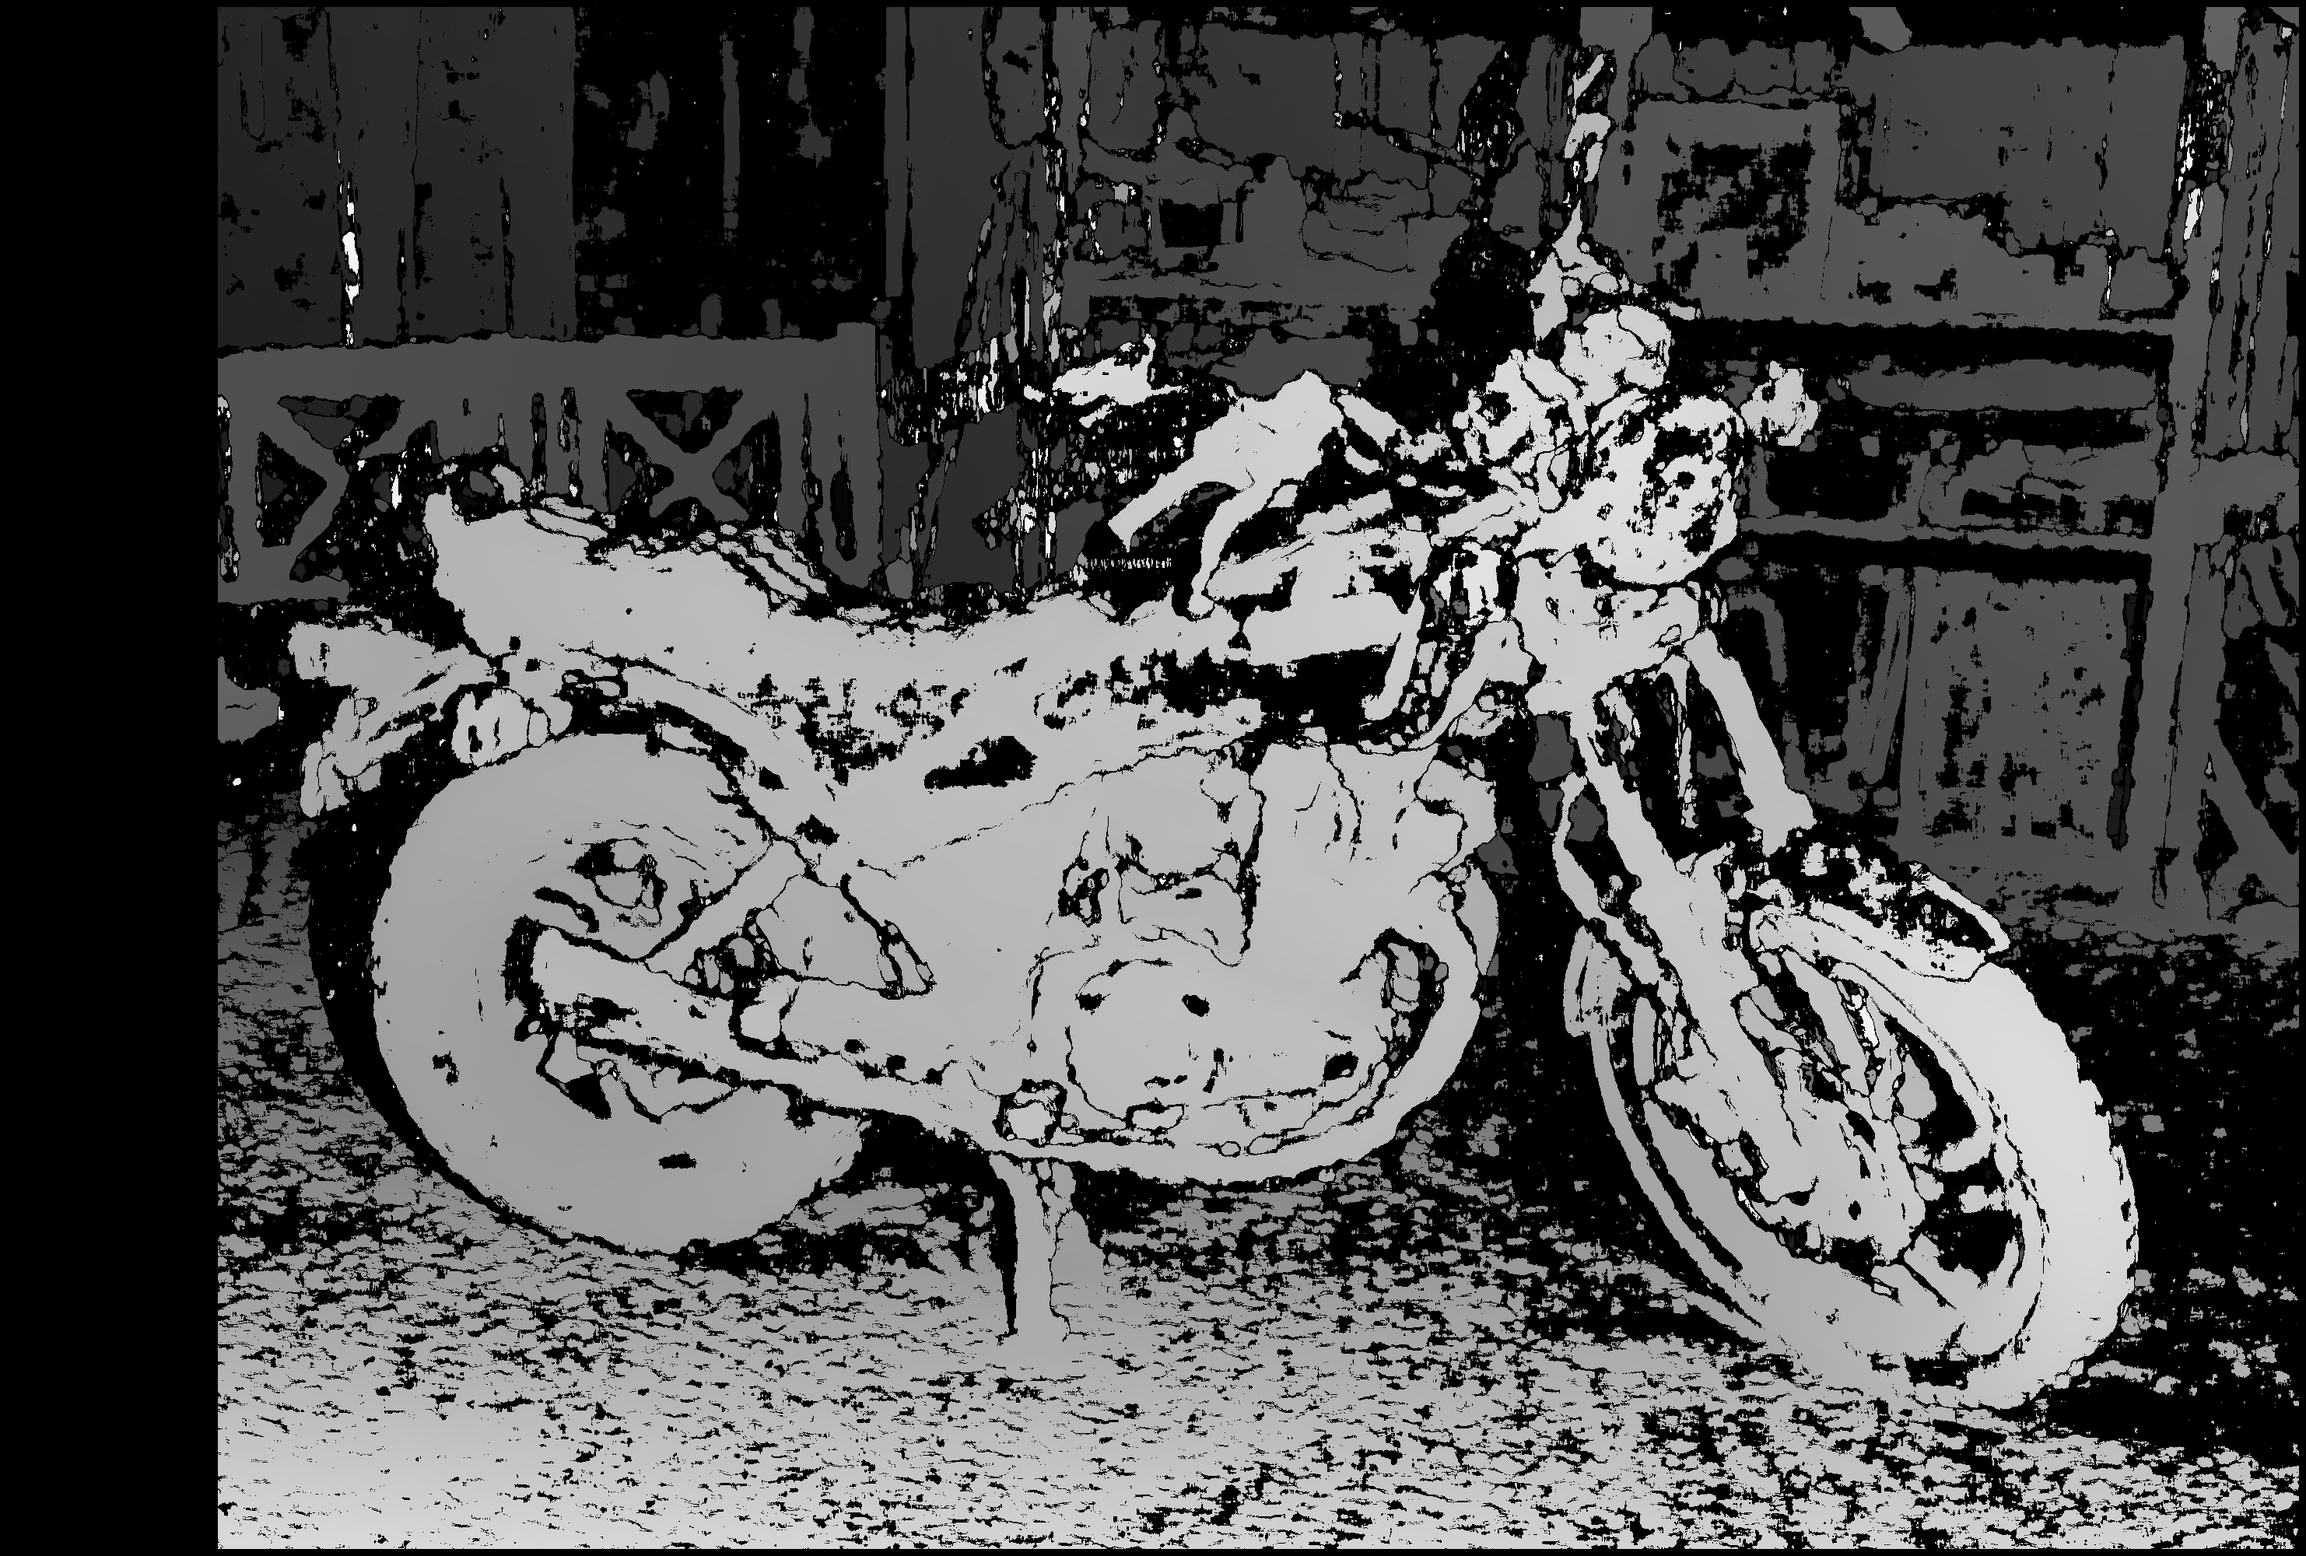
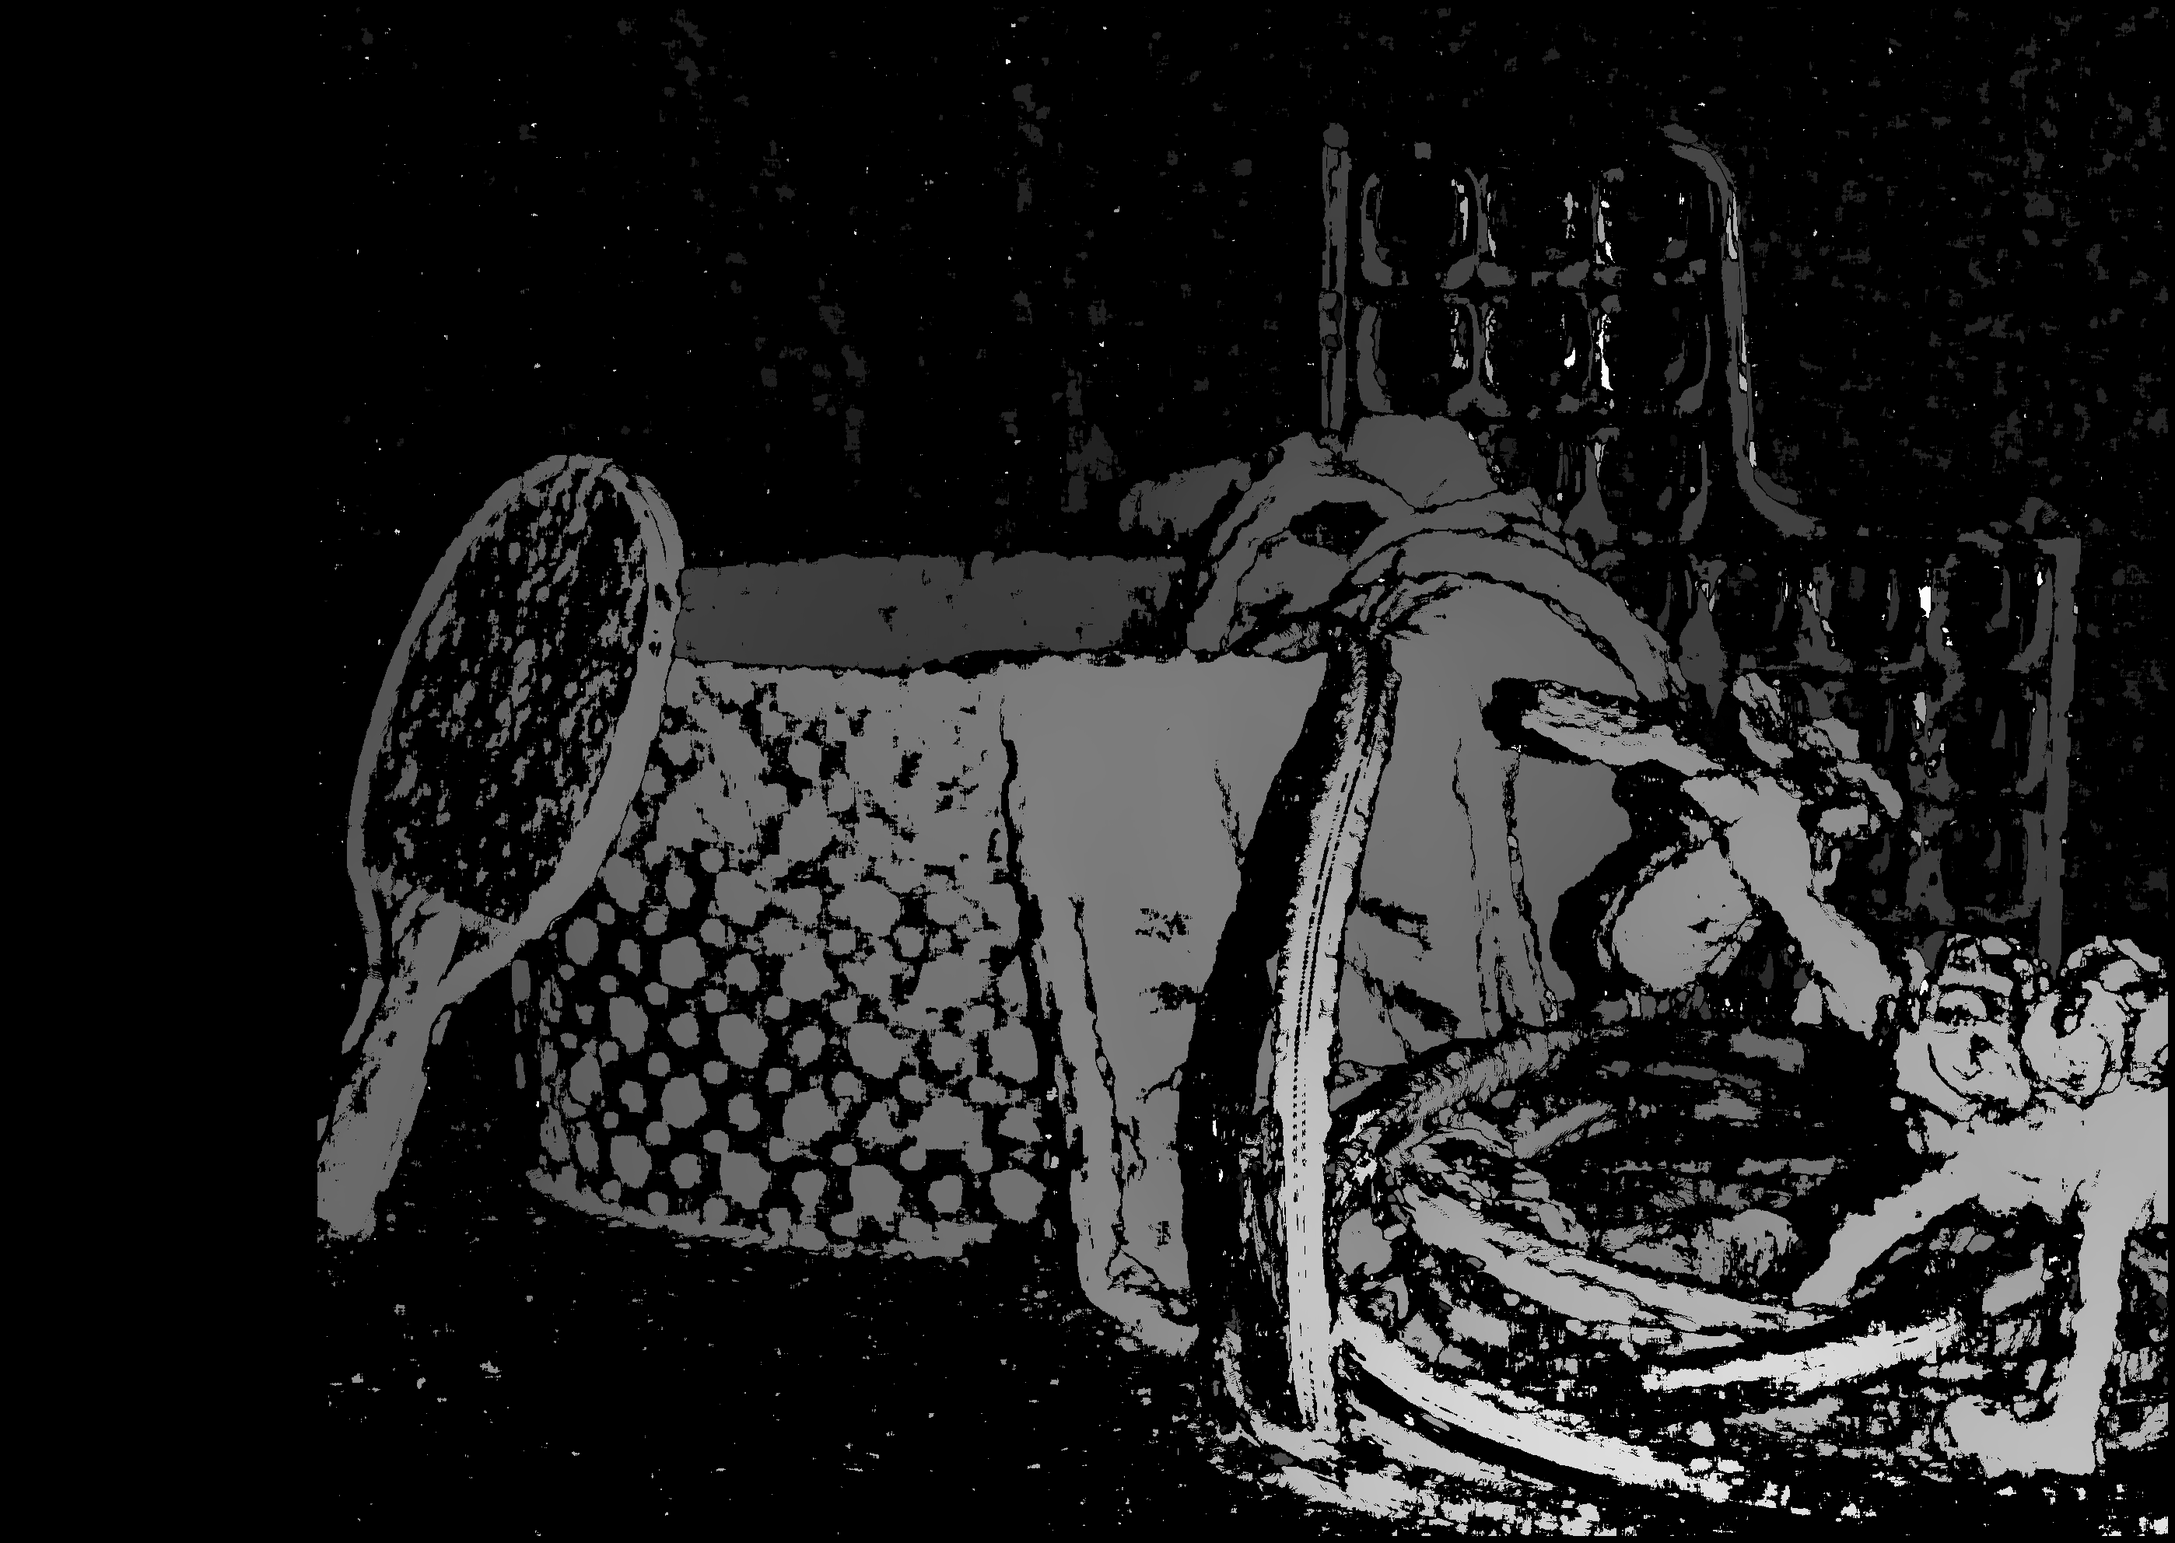
Changing variables and modifying matrix to test image 2

diff --git a/stereo-vision.py b/stereo-vision.py
@@ -2,21 +2,22 @@ import cv2 as cv
 import numpy as np
 
 
-FX = 3979.911
-FY = 3979.911
-BASELINE = 193.001
-DOFFS = 124.343
-CX = 1244.772
-CY= 1019.507
+FX = 6338.47
+FY = 6338.47
+BASELINE = 171.548
+DOFFS = 479.489
+CX0 = 1035.675
+CX1 = 1515.164
+CY= 960.073
 
-NUM_DISPARITES = 272
+NUM_DISPARITES = 400
 BLOCK_SIZE = 19
 
 def main():
 
     # Load left and right images in Grayscale
-    left_image = cv.imread("dataset/im0/im0.png", cv.IMREAD_GRAYSCALE)
-    right_image = cv.imread("dataset/im0/im1.png", cv.IMREAD_GRAYSCALE)
+    left_image = cv.imread("dataset/img1/im0.png", cv.IMREAD_GRAYSCALE)
+    right_image = cv.imread("dataset/img1/im1.png", cv.IMREAD_GRAYSCALE)
 
     # Create Block Matching "object"
     block_matching = cv.StereoBM_create(numDisparities=NUM_DISPARITES, blockSize=BLOCK_SIZE) 
@@ -28,29 +29,32 @@ def main():
     # Convert the 16-bit fixed-point representation value to the actual disparity
     actual_disparity = disparity.astype(np.float32) / 16
 
-    # Calculate the depth of a chosen pixel (Z)
-    depth = calc_depth(actual_disparity, FX, BASELINE, DOFFS, 1500, 1000)
-    # print depth
-    print(f"Depth of selected pixel: {depth} mm")
 
-    # Define a Conversion matrix (Q)
+    # Selected Pixel
+    x = 1000
+    y = 1000
+    # Calculate the depth of a chosen pixel (Z)
+    depth = calc_depth(actual_disparity, FX, BASELINE, DOFFS, x, y)
+    # print depth
+    print(f"Depth of selected pixel: {depth:.2f} mm")
+
+    # Define a Conversion matrix (Q) that fits the conditions
     Q = np.float32([
-    [1, 0, 0, -CX],
-    [0, 1, 0, -CY],
+    [-1, 0, 0, CX0],
+    [0, -1, 0, CY],
     [0, 0, 0, FX],
     [0, 0, 1/BASELINE, DOFFS/BASELINE]])
 
     # Reproject points to 3D
     points_3d = cv.reprojectImageTo3D(actual_disparity, Q)
-
-    # Create a Mask for "Valid" disparity values ( > 0)
+    # Create a Mask for "Valid" disparity values ( > 0 )
     valid = actual_disparity > 0
     # Use boolean indexing to filter invalid disparity
     valid_points = points_3d[valid]
 
 
     # Get the left image colored as RGB
-    left_img_clr = cv.imread("dataset/im0/im0.png")
+    left_img_clr = cv.imread("dataset/img1/im0.png")
     left_img_clr = cv.cvtColor(left_img_clr, cv.COLOR_BGR2RGB)
     # Use Boolean indexing to filter disparity
     valid_colored = left_img_clr[valid]
@@ -88,7 +92,7 @@ def save_ply(filename, points, colors):
                 file.write(f"{X} {Y} {Z} {int(R)} {int(G)} {int(B)}\n")
 
             print("Polygon file created successfully.")
-    except:
+    except Exception:
         print("Couldn't create a file!")
         
 
